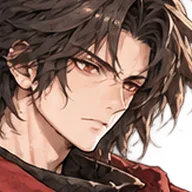
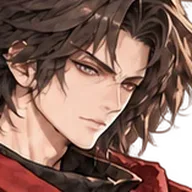
feat(v2cap): 男性のクラスのイラストを描き直した版に差し替える
- ユーザー「男のイラスト修正した、以下に差し替えて」（10枚・盗賊は前のまま）
- 剣士・戦士・槍使い・格闘家・弓使い・銃士・魔法使い・呪術師・僧侶・薬師の元の絵（<ローマ字>otoko.png）を置き換え、
  全身（web/）と顔のアップ（face/）を作り直した。どれも透明な背景（マゼンタで確かめた）
- 顔のアップがそろうよう、男性の顔の目印（ART_FACE）を10枚とも測り直した

diff --git a/src/v2cap/lib/classArt.js b/src/v2cap/lib/classArt.js
@@ -34,18 +34,19 @@ export const ART_BASE = {
 //     どの顔も「目の高さ」と「目〜あごの長さ」が同じになるように切り取る（FACE_FIT）
 // ART_FACE … [両目のまんなかの横, 縦, あごの横, 縦]。どれも元の絵の幅・高さに対する割合（拡大図で測った）
 export const ART_FACE = {
-  kensi:      { m:[0.549, 0.102, 0.533, 0.141], f:[0.673, 0.117, 0.656, 0.159] },
-  sensi:      { m:[0.507, 0.081, 0.507, 0.130], f:[0.721, 0.167, 0.714, 0.213] },
-  yaritukai:  { m:[0.555, 0.125, 0.548, 0.168], f:[0.434, 0.148, 0.424, 0.190] },
-  kakutouka:  { m:[0.675, 0.130, 0.670, 0.176], f:[0.585, 0.163, 0.561, 0.204] },
+  kensi:      { m:[0.545, 0.101, 0.531, 0.142], f:[0.673, 0.117, 0.656, 0.159] },
+  sensi:      { m:[0.497, 0.079, 0.502, 0.133], f:[0.721, 0.167, 0.714, 0.213] },
+  yaritukai:  { m:[0.620, 0.129, 0.606, 0.171], f:[0.434, 0.148, 0.424, 0.190] },
+  kakutouka:  { m:[0.672, 0.129, 0.671, 0.182], f:[0.585, 0.163, 0.561, 0.204] },
   touzoku:    { m:[0.273, 0.160, 0.288, 0.212], f:[0.365, 0.126, 0.379, 0.170] },
-  yumitukai:  { m:[0.425, 0.126, 0.413, 0.171], f:[0.598, 0.103, 0.595, 0.147] },
-  zyuusi:     { m:[0.645, 0.110, 0.637, 0.162], f:[0.634, 0.093, 0.616, 0.138] },
-  mahoutukai: { m:[0.427, 0.101, 0.442, 0.140], f:[0.528, 0.098, 0.519, 0.141] },
-  zyuzyutusi: { m:[0.454, 0.096, 0.475, 0.137], f:[0.549, 0.095, 0.543, 0.143] },
-  sisai:      { m:[0.483, 0.125, 0.501, 0.168], f:[0.487, 0.118, 0.506, 0.166] },
-  yakusi:     { m:[0.465, 0.098, 0.486, 0.149], f:[0.477, 0.132, 0.472, 0.176] },
+  yumitukai:  { m:[0.424, 0.124, 0.424, 0.164], f:[0.598, 0.103, 0.595, 0.147] },
+  zyuusi:     { m:[0.670, 0.108, 0.662, 0.154], f:[0.634, 0.093, 0.616, 0.138] },
+  mahoutukai: { m:[0.416, 0.100, 0.434, 0.142], f:[0.528, 0.098, 0.519, 0.141] },
+  zyuzyutusi: { m:[0.463, 0.094, 0.482, 0.137], f:[0.549, 0.095, 0.543, 0.143] },
+  sisai:      { m:[0.487, 0.124, 0.497, 0.163], f:[0.487, 0.118, 0.506, 0.166] },
+  yakusi:     { m:[0.471, 0.099, 0.490, 0.148], f:[0.477, 0.132, 0.472, 0.176] },
 }
+// ★男性の絵は 2026-10-11 にユーザーが描き直した版へ差し替えた（盗賊だけ前のまま）。差し替えたら目印も測り直す
 // 顔のアップの写し方（切り取る正方形に対する割合）：目の高さ eyeAt・目〜あごの長さ eyeToChin。
 // 左右は「両目のまんなか」と「あご」の中間を真ん中に。顔をもっと大きく見せたいときは eyeToChin を上げる
 export const FACE_FIT = { eyeAt: 0.40, eyeToChin: 0.38 }

diff --git a/docs/v2cap-design.md b/docs/v2cap-design.md
@@ -785,3 +785,6 @@
   - 武器ごとの配分（物理だけ／魔法だけ／両方）は変わらない（刀・片手剣は物理だけ、短剣・投擲は両方、宝珠は魔法だけのまま）
   - SQL：v2cap_classes.weapons を作り直し、いまの職業で装備できない武器を着けているキャラはその武器を外す（持ち物には残る・何度流しても同じ）。PGlite で前の版→新しい版を2回流して確かめた
   - 落ちる武器もいまの職業が装備できる3種から。測り直し（シミュの装備選び）は保留中の測り直しのときにまとめて
+- **2026-10-11 男性のイラストを描き直した版に差し替えた**（ユーザー「男のイラスト修正した、以下に差し替えて」・10枚）
+  - 剣士・戦士・槍使い・格闘家・弓使い・銃士・魔法使い・呪術師・僧侶・薬師（盗賊は前のまま）。届いた WebP（透明な背景・マゼンタで確かめた）を `<ローマ字>otoko.png` に書き出して元の絵を置き換え、`node tools/v2cap-art.mjs` で作り直した
+  - 顔の目印（ART_FACE の男性）も10枚とも測り直した（目〜あご 56〜78px とばらつくが、切り取りは顔の大きさに合わせるので一覧の大きさはそろう）
